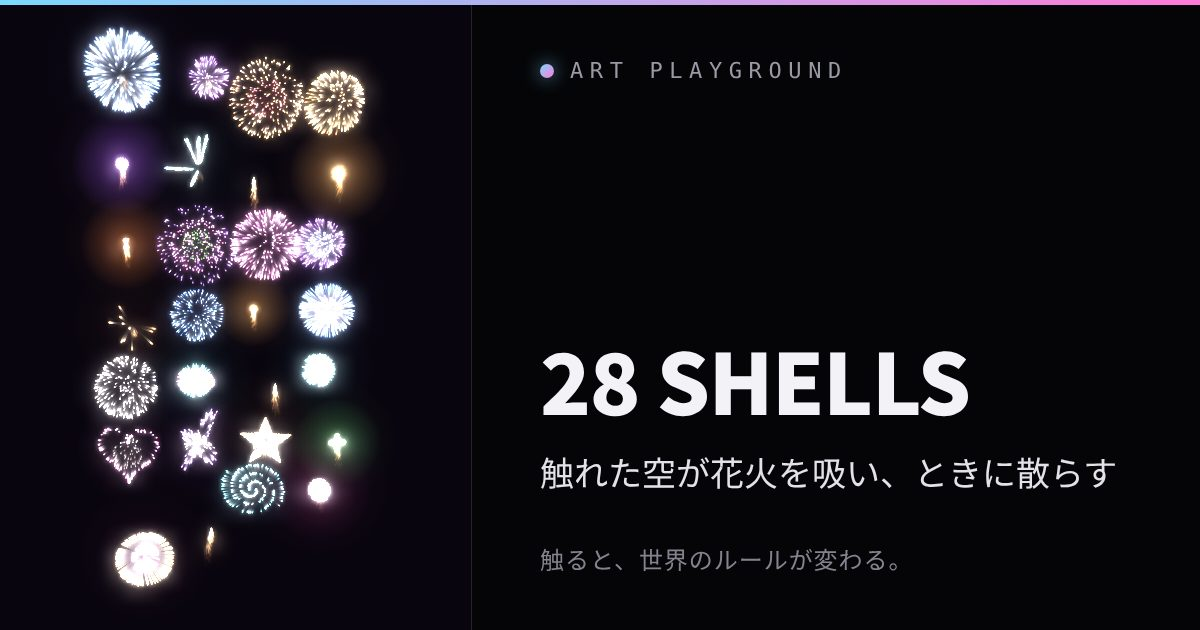
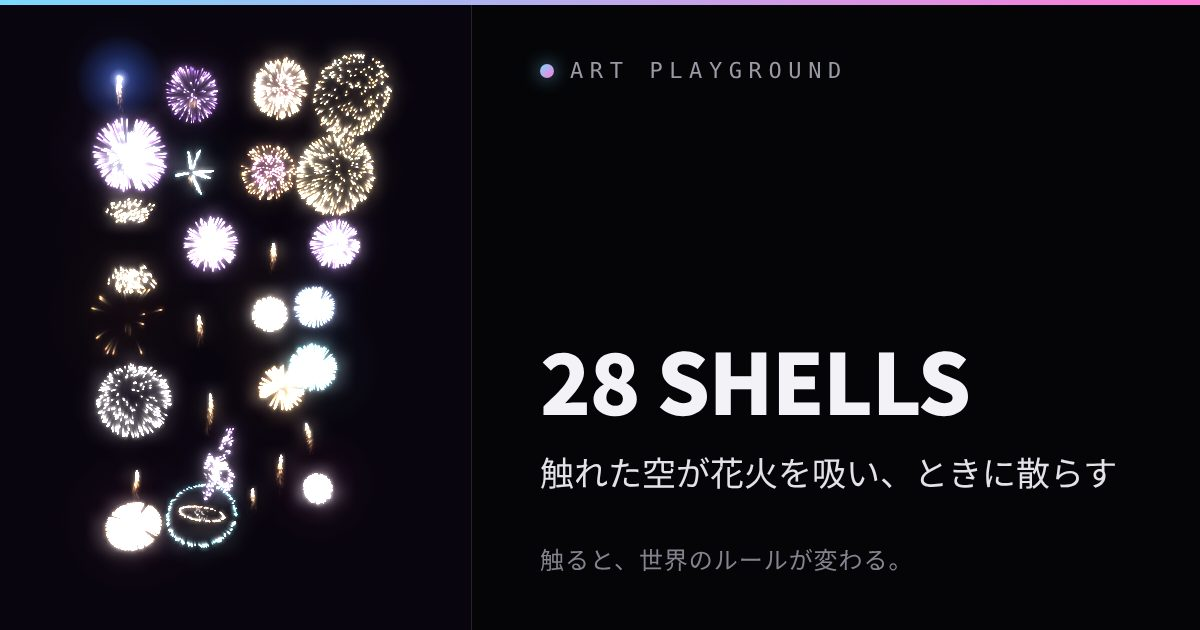
Adopt FALLEN MINUTES as art-v123 and set as CURRENT
Promote prototypes/fallen-minutes.html to art-v123-fallen-minutes.html, move DEEP HOURS into LOG, add REC_WORKS/META/sitemap, regenerate posters and OGP.

Claude-Session: https://claude.ai/code/session_019C65K1LFf5SYdyE4Z4ysti

Changed region(s): [[0.0617, 0.0302, 0.3392, 0.9651]]

diff --git a/index.html b/index.html
@@ -104,8 +104,8 @@
 <body>
 <div class="field"></div><div class="grain"></div><div class="wrap">
 <header class="top"><div class="eyebrow mono">ART PLAYGROUND</div><h1>触ると、世界のルールが変わる。</h1></header><nav class="top-sns" aria-label="ART PLAYGROUNDのSNS"><a class="follow-link ig" href="https://www.instagram.com/artplayground.art/" target="_blank" rel="noopener noreferrer" aria-label="ART PLAYGROUNDのInstagramを開く"><svg viewBox="0 0 24 24" fill="none" stroke="currentColor" stroke-width="1.8" aria-hidden="true"><rect x="3" y="3" width="18" height="18" rx="5.5"/><circle cx="12" cy="12" r="4.1"/><circle cx="17.1" cy="6.9" r="0.55" fill="currentColor" stroke="none"/></svg>Instagram</a><a class="follow-link th" href="https://www.threads.net/@artplayground.art" target="_blank" rel="noopener noreferrer" aria-label="ART PLAYGROUNDのThreadsを開く"><svg viewBox="0 0 24 24" fill="currentColor" aria-hidden="true"><path d="M12.186 24h-.007c-3.581-.024-6.334-1.205-8.184-3.509C2.35 18.44 1.5 15.586 1.472 12.01v-.017c.03-3.579.879-6.43 2.525-8.482C5.845 1.205 8.6.024 12.18 0h.014c2.746.02 5.043.725 6.826 2.098 1.677 1.29 2.858 3.13 3.509 5.467l-2.04.569c-1.104-3.96-3.898-5.984-8.304-6.015-2.91.022-5.11.936-6.54 2.717C4.307 6.504 3.616 8.914 3.589 12c.027 3.086.718 5.496 2.057 7.164 1.43 1.783 3.631 2.698 6.54 2.717 2.623-.02 4.358-.631 5.8-2.045 1.647-1.613 1.618-3.593 1.09-4.798-.31-.71-.873-1.3-1.634-1.75-.192 1.352-.622 2.446-1.284 3.272-.886 1.102-2.14 1.704-3.73 1.79-1.202.065-2.361-.218-3.259-.801-1.063-.689-1.685-1.74-1.752-2.964-.065-1.19.408-2.285 1.33-3.082.88-.76 2.119-1.207 3.583-1.291a13.853 13.853 0 0 1 3.02.142c-.126-.742-.375-1.332-.75-1.757-.513-.586-1.308-.883-2.359-.89h-.029c-.844 0-1.992.232-2.721 1.32L7.734 7.847c.98-1.454 2.568-2.256 4.478-2.256h.044c3.194.02 5.097 1.975 5.287 5.388.108.046.216.094.321.142 1.49.7 2.58 1.761 3.154 3.07.797 1.82.871 4.79-1.548 7.158-1.85 1.81-4.094 2.628-7.277 2.65Zm1.003-11.69c-.242 0-.487.007-.739.021-1.836.103-2.98.946-2.916 2.143.067 1.256 1.452 1.839 2.784 1.767 1.224-.065 2.818-.543 3.086-3.71a10.5 10.5 0 0 0-2.215-.221z"/></svg>Threads</a><a class="follow-link tt" href="https://www.tiktok.com/@artplayground.art" target="_blank" rel="noopener noreferrer" aria-label="ART PLAYGROUNDのTikTokを開く"><svg viewBox="0 0 24 24" fill="currentColor" aria-hidden="true"><path d="M16.6 3h-3v12.2a2.9 2.9 0 1 1-2.05-2.77v-3.05a5.95 5.95 0 1 0 5.05 5.88V9.2a7.1 7.1 0 0 0 4.1 1.3V7.5a4.1 4.1 0 0 1-4.1-4.1V3z"/></svg>TikTok</a><button class="top-share" id="siteShareBtn" type="button" aria-label="ART PLAYGROUNDをシェアする"><svg viewBox="0 0 24 24" fill="none" stroke="currentColor" stroke-width="2" stroke-linecap="round" stroke-linejoin="round" aria-hidden="true"><path d="M12 15V4"/><path d="M8 8l4-4 4 4"/><path d="M6 11H5.5A1.5 1.5 0 0 0 4 12.5v6A1.5 1.5 0 0 0 5.5 20h13a1.5 1.5 0 0 0 1.5-1.5v-6a1.5 1.5 0 0 0-1.5-1.5H18"/></svg>シェアする</button></nav>
-<div class="current" onclick="openArt('art-v120-deep-hours.html','DEEP HOURS')"><iframe data-src="art-v120-deep-hours.html" loading="lazy"></iframe><div class="cap"><div class="tag mono">CURRENT</div><div class="name">DEEP HOURS</div></div></div>
-<div class="logbar"><h2 class="label">LOG</h2><button id="prevToggle" type="button" aria-pressed="false" class="off">動くプレビュー OFF</button></div><div class="log"><button class="entry" onclick="openArt('art-v122-28-shells.html','28 SHELLS')"><iframe data-src="art-v122-28-shells.html" loading="lazy"></iframe><div class="cap"><div class="name">28 SHELLS</div></div></button><button class="entry" onclick="openArt('art-v121-campfire.html','CAMPFIRE')"><iframe data-src="art-v121-campfire.html" loading="lazy"></iframe><div class="cap"><div class="name">CAMPFIRE</div></div></button><button class="entry" onclick="openArt('art-v119-window-fog.html','WINDOW FOG')"><iframe data-src="art-v119-window-fog.html" loading="lazy"></iframe><div class="cap"><div class="name">WINDOW FOG</div></div></button><button class="entry" onclick="openArt('art-v118-blink-law.html','BLINK LAW')"><iframe data-src="art-v118-blink-law.html" loading="lazy"></iframe><div class="cap"><div class="name">BLINK LAW</div></div></button><button class="entry" onclick="openArt('art-v117-gaze-law.html','GAZE LAW')"><iframe data-src="art-v117-gaze-law.html" loading="lazy"></iframe><div class="cap"><div class="name">GAZE LAW</div></div></button><button class="entry" onclick="openArt('art-v116-foil-law.html','FOIL LAW')"><iframe data-src="art-v116-foil-law.html" loading="lazy"></iframe><div class="cap"><div class="name">FOIL LAW</div></div></button><button class="entry" onclick="openArt('art-v115-komorebi.html','KOMOREBI')"><iframe data-src="art-v115-komorebi.html" loading="lazy"></iframe><div class="cap"><div class="name">KOMOREBI</div></div></button><button class="entry" onclick="openArt('art-v113-ring-dial.html','RING DIAL')"><iframe data-src="art-v113-ring-dial.html" loading="lazy"></iframe><div class="cap"><div class="name">RING DIAL</div></div></button><button class="entry" onclick="openArt('art-v112-silver-turn.html','SILVER TURN')"><iframe data-src="art-v112-silver-turn.html" loading="lazy"></iframe><div class="cap"><div class="name">SILVER TURN</div></div></button><button class="entry" onclick="openArt('art-v111-sea-sparkle.html','SEA SPARKLE')"><iframe data-src="art-v111-sea-sparkle.html" loading="lazy"></iframe><div class="cap"><div class="name">SEA SPARKLE</div></div></button><button class="entry" onclick="openArt('art-v110-north-draw.html','NORTH DRAW')"><iframe data-src="art-v110-north-draw.html" loading="lazy"></iframe><div class="cap"><div class="name">NORTH DRAW</div></div></button><button class="entry" onclick="openArt('art-v109-next-spring.html','NEXT SPRING')"><iframe data-src="art-v109-next-spring.html" loading="lazy"></iframe><div class="cap"><div class="name">NEXT SPRING</div></div></button><button class="entry" onclick="openArt('art-v108-iron-bloom.html','IRON BLOOM')"><iframe data-src="art-v108-iron-bloom.html" loading="lazy"></iframe><div class="cap"><div class="name">IRON BLOOM</div></div></button><button class="entry" onclick="openArt('art-v107-eye-loom.html','EYE LOOM')"><iframe data-src="art-v107-eye-loom.html" loading="lazy"></iframe><div class="cap"><div class="name">EYE LOOM</div></div></button><button class="entry" onclick="openArt('art-v106-split-dew.html','SPLIT DEW')"><iframe data-src="art-v106-split-dew.html" loading="lazy"></iframe><div class="cap"><div class="name">SPLIT DEW</div></div></button><button class="entry" onclick="openArt('art-v105-strata-sand.html','STRATA SAND')"><iframe data-src="art-v105-strata-sand.html" loading="lazy"></iframe><div class="cap"><div class="name">STRATA SAND</div></div></button><button class="entry" onclick="openArt('art-v104-prism-shell.html','PRISM SHELL')"><iframe data-src="art-v104-prism-shell.html" loading="lazy"></iframe><div class="cap"><div class="name">PRISM SHELL</div></div></button>
+<div class="current" onclick="openArt('art-v123-fallen-minutes.html','FALLEN MINUTES')"><iframe data-src="art-v123-fallen-minutes.html" loading="lazy"></iframe><div class="cap"><div class="tag mono">CURRENT</div><div class="name">FALLEN MINUTES</div></div></div>
+<div class="logbar"><h2 class="label">LOG</h2><button id="prevToggle" type="button" aria-pressed="false" class="off">動くプレビュー OFF</button></div><div class="log"><button class="entry" onclick="openArt('art-v122-28-shells.html','28 SHELLS')"><iframe data-src="art-v122-28-shells.html" loading="lazy"></iframe><div class="cap"><div class="name">28 SHELLS</div></div></button><button class="entry" onclick="openArt('art-v121-campfire.html','CAMPFIRE')"><iframe data-src="art-v121-campfire.html" loading="lazy"></iframe><div class="cap"><div class="name">CAMPFIRE</div></div></button><button class="entry" onclick="openArt('art-v120-deep-hours.html','DEEP HOURS')"><iframe data-src="art-v120-deep-hours.html" loading="lazy"></iframe><div class="cap"><div class="name">DEEP HOURS</div></div></button><button class="entry" onclick="openArt('art-v119-window-fog.html','WINDOW FOG')"><iframe data-src="art-v119-window-fog.html" loading="lazy"></iframe><div class="cap"><div class="name">WINDOW FOG</div></div></button><button class="entry" onclick="openArt('art-v118-blink-law.html','BLINK LAW')"><iframe data-src="art-v118-blink-law.html" loading="lazy"></iframe><div class="cap"><div class="name">BLINK LAW</div></div></button><button class="entry" onclick="openArt('art-v117-gaze-law.html','GAZE LAW')"><iframe data-src="art-v117-gaze-law.html" loading="lazy"></iframe><div class="cap"><div class="name">GAZE LAW</div></div></button><button class="entry" onclick="openArt('art-v116-foil-law.html','FOIL LAW')"><iframe data-src="art-v116-foil-law.html" loading="lazy"></iframe><div class="cap"><div class="name">FOIL LAW</div></div></button><button class="entry" onclick="openArt('art-v115-komorebi.html','KOMOREBI')"><iframe data-src="art-v115-komorebi.html" loading="lazy"></iframe><div class="cap"><div class="name">KOMOREBI</div></div></button><button class="entry" onclick="openArt('art-v113-ring-dial.html','RING DIAL')"><iframe data-src="art-v113-ring-dial.html" loading="lazy"></iframe><div class="cap"><div class="name">RING DIAL</div></div></button><button class="entry" onclick="openArt('art-v112-silver-turn.html','SILVER TURN')"><iframe data-src="art-v112-silver-turn.html" loading="lazy"></iframe><div class="cap"><div class="name">SILVER TURN</div></div></button><button class="entry" onclick="openArt('art-v111-sea-sparkle.html','SEA SPARKLE')"><iframe data-src="art-v111-sea-sparkle.html" loading="lazy"></iframe><div class="cap"><div class="name">SEA SPARKLE</div></div></button><button class="entry" onclick="openArt('art-v110-north-draw.html','NORTH DRAW')"><iframe data-src="art-v110-north-draw.html" loading="lazy"></iframe><div class="cap"><div class="name">NORTH DRAW</div></div></button><button class="entry" onclick="openArt('art-v109-next-spring.html','NEXT SPRING')"><iframe data-src="art-v109-next-spring.html" loading="lazy"></iframe><div class="cap"><div class="name">NEXT SPRING</div></div></button><button class="entry" onclick="openArt('art-v108-iron-bloom.html','IRON BLOOM')"><iframe data-src="art-v108-iron-bloom.html" loading="lazy"></iframe><div class="cap"><div class="name">IRON BLOOM</div></div></button><button class="entry" onclick="openArt('art-v107-eye-loom.html','EYE LOOM')"><iframe data-src="art-v107-eye-loom.html" loading="lazy"></iframe><div class="cap"><div class="name">EYE LOOM</div></div></button><button class="entry" onclick="openArt('art-v106-split-dew.html','SPLIT DEW')"><iframe data-src="art-v106-split-dew.html" loading="lazy"></iframe><div class="cap"><div class="name">SPLIT DEW</div></div></button><button class="entry" onclick="openArt('art-v105-strata-sand.html','STRATA SAND')"><iframe data-src="art-v105-strata-sand.html" loading="lazy"></iframe><div class="cap"><div class="name">STRATA SAND</div></div></button><button class="entry" onclick="openArt('art-v104-prism-shell.html','PRISM SHELL')"><iframe data-src="art-v104-prism-shell.html" loading="lazy"></iframe><div class="cap"><div class="name">PRISM SHELL</div></div></button>
 <button class="entry" onclick="openArt('art-v103-snow-ledger.html','SNOW LEDGER')"><iframe data-src="art-v103-snow-ledger.html" loading="lazy"></iframe><div class="cap"><div class="name">SNOW LEDGER</div></div></button>
 <button class="entry" onclick="openArt('art-v102-rosary.html','ROSARY')"><iframe data-src="art-v102-rosary.html" loading="lazy"></iframe><div class="cap"><div class="name">ROSARY</div></div></button>
 <button class="entry" onclick="openArt('art-v101-waterline.html','WATERLINE')"><iframe data-src="art-v101-waterline.html" loading="lazy"></iframe><div class="cap"><div class="name">WATERLINE</div></div></button>
@@ -162,7 +162,7 @@
 <button class="entry" onclick="openArt('art-v20.html','ALIVE')"><iframe data-src="art-v20.html" loading="lazy"></iframe><div class="cap"><div class="name">ALIVE</div></div></button>
 </div>
 <section class="follow" aria-label="ART PLAYGROUNDのSNS"><div class="follow-kicker mono">FOLLOW THE PLAYGROUND</div><h2>新しい作品、実験、変化の記録をSNSで。</h2><div class="follow-links"><a class="follow-link ig" href="https://www.instagram.com/artplayground.art/" target="_blank" rel="noopener noreferrer" aria-label="ART PLAYGROUNDのInstagramを開く"><svg viewBox="0 0 24 24" fill="none" stroke="currentColor" stroke-width="1.8" aria-hidden="true"><rect x="3" y="3" width="18" height="18" rx="5.5"/><circle cx="12" cy="12" r="4.1"/><circle cx="17.1" cy="6.9" r="0.55" fill="currentColor" stroke="none"/></svg>Instagram</a><a class="follow-link tt" href="https://www.tiktok.com/@artplayground.art" target="_blank" rel="noopener noreferrer" aria-label="ART PLAYGROUNDのTikTokを開く"><svg viewBox="0 0 24 24" fill="currentColor" aria-hidden="true"><path d="M16.6 3h-3v12.2a2.9 2.9 0 1 1-2.05-2.77v-3.05a5.95 5.95 0 1 0 5.05 5.88V9.2a7.1 7.1 0 0 0 4.1 1.3V7.5a4.1 4.1 0 0 1-4.1-4.1V3z"/></svg>TikTok</a><a class="follow-link th" href="https://www.threads.net/@artplayground.art" target="_blank" rel="noopener noreferrer" aria-label="ART PLAYGROUNDのThreadsを開く"><svg viewBox="0 0 24 24" fill="currentColor" aria-hidden="true"><path d="M12.186 24h-.007c-3.581-.024-6.334-1.205-8.184-3.509C2.35 18.44 1.5 15.586 1.472 12.01v-.017c.03-3.579.879-6.43 2.525-8.482C5.845 1.205 8.6.024 12.18 0h.014c2.746.02 5.043.725 6.826 2.098 1.677 1.29 2.858 3.13 3.509 5.467l-2.04.569c-1.104-3.96-3.898-5.984-8.304-6.015-2.91.022-5.11.936-6.54 2.717C4.307 6.504 3.616 8.914 3.589 12c.027 3.086.718 5.496 2.057 7.164 1.43 1.783 3.631 2.698 6.54 2.717 2.623-.02 4.358-.631 5.8-2.045 1.647-1.613 1.618-3.593 1.09-4.798-.31-.71-.873-1.3-1.634-1.75-.192 1.352-.622 2.446-1.284 3.272-.886 1.102-2.14 1.704-3.73 1.79-1.202.065-2.361-.218-3.259-.801-1.063-.689-1.685-1.74-1.752-2.964-.065-1.19.408-2.285 1.33-3.082.88-.76 2.119-1.207 3.583-1.291a13.853 13.853 0 0 1 3.02.142c-.126-.742-.375-1.332-.75-1.757-.513-.586-1.308-.883-2.359-.89h-.029c-.844 0-1.992.232-2.721 1.32L7.734 7.847c.98-1.454 2.568-2.256 4.478-2.256h.044c3.194.02 5.097 1.975 5.287 5.388.108.046.216.094.321.142 1.49.7 2.58 1.761 3.154 3.07.797 1.82.871 4.79-1.548 7.158-1.85 1.81-4.094 2.628-7.277 2.65Zm1.003-11.69c-.242 0-.487.007-.739.021-1.836.103-2.98.946-2.916 2.143.067 1.256 1.452 1.839 2.784 1.767 1.224-.065 2.818-.543 3.086-3.71a10.5 10.5 0 0 0-2.215-.221z"/></svg>Threads</a></div></section>
-<section class="about" aria-label="ART PLAYGROUNDについて"><div class="about-kicker mono">ABOUT THE PROJECT</div><h2>インタラクティブなジェネラティブアート作品を制作・公開する独立プロジェクトです。</h2><p>ジェネラティブアートとは、プログラムのルールから生み出される作品のことです。</p><p>ART PLAYGROUNDでは、触れることで作品世界のルールが変化する作品を制作しています。現在公開している作品を、このサイト上で実際に体験できます。</p><p class="about-en">ART PLAYGROUND is an independent generative art project creating and publishing interactive artworks. Each work explores a world whose rules can change through interaction. The artworks are available to experience directly on this website.</p><p class="about-works">Published works: DEEP HOURS · 28 SHELLS · CAMPFIRE · WINDOW FOG · BLINK LAW · GAZE LAW · FOIL LAW · KOMOREBI · RING DIAL · SILVER TURN · SEA SPARKLE · NORTH DRAW · NEXT SPRING · IRON BLOOM · EYE LOOM · SPLIT DEW · STRATA SAND · PRISM SHELL · SNOW LEDGER · ROSARY · WATERLINE · HAIRLINE · MORPHING FERN · SWARM CATHEDRAL · MIRROR POOL · FROST CATHEDRAL · DROSTE RAIN · ATTRACTOR VEIL · LIVING REEF · HELIOTROPE · BUD LAW · NEST LAW · LAMP FOLD · BIRTHMARK · LIGHT WEB · TWIN TIDE · ANIMAL MANSION · HAMSTER DROP · PALIMPSEST · INNER EYE · RAIN RELAY · RAINBOW WALK · NIGHT SHIFT · HELD TIME · COLOR LATTICE · KEPT WARMTH · CHROMA DRIFT · MIRROR FRACTURE · MIRROR DESCENT · MIRROR PRESSURE · LUMINA · TIDE MARK · FATIGUE LAW · OPAL MARBLE · TAR CEILING · SEVEN SLICE · HOLO COMPASS · ENCIRCLE · COLOR BREATH · CHROMATIC FOLD · RGB MEMBRANE · STRATUM · VOID FIELD II · FEATHER FOLD · INFECTION · ART OF BECOMING · ONE KNOT · DIVIDED LAW · STANDING LAW · LIVING ORDER · PARTICLE COSMOS II · ALIVE</p></section>
+<section class="about" aria-label="ART PLAYGROUNDについて"><div class="about-kicker mono">ABOUT THE PROJECT</div><h2>インタラクティブなジェネラティブアート作品を制作・公開する独立プロジェクトです。</h2><p>ジェネラティブアートとは、プログラムのルールから生み出される作品のことです。</p><p>ART PLAYGROUNDでは、触れることで作品世界のルールが変化する作品を制作しています。現在公開している作品を、このサイト上で実際に体験できます。</p><p class="about-en">ART PLAYGROUND is an independent generative art project creating and publishing interactive artworks. Each work explores a world whose rules can change through interaction. The artworks are available to experience directly on this website.</p><p class="about-works">Published works: FALLEN MINUTES · 28 SHELLS · CAMPFIRE · DEEP HOURS · WINDOW FOG · BLINK LAW · GAZE LAW · FOIL LAW · KOMOREBI · RING DIAL · SILVER TURN · SEA SPARKLE · NORTH DRAW · NEXT SPRING · IRON BLOOM · EYE LOOM · SPLIT DEW · STRATA SAND · PRISM SHELL · SNOW LEDGER · ROSARY · WATERLINE · HAIRLINE · MORPHING FERN · SWARM CATHEDRAL · MIRROR POOL · FROST CATHEDRAL · DROSTE RAIN · ATTRACTOR VEIL · LIVING REEF · HELIOTROPE · BUD LAW · NEST LAW · LAMP FOLD · BIRTHMARK · LIGHT WEB · TWIN TIDE · ANIMAL MANSION · HAMSTER DROP · PALIMPSEST · INNER EYE · RAIN RELAY · RAINBOW WALK · NIGHT SHIFT · HELD TIME · COLOR LATTICE · KEPT WARMTH · CHROMA DRIFT · MIRROR FRACTURE · MIRROR DESCENT · MIRROR PRESSURE · LUMINA · TIDE MARK · FATIGUE LAW · OPAL MARBLE · TAR CEILING · SEVEN SLICE · HOLO COMPASS · ENCIRCLE · COLOR BREATH · CHROMATIC FOLD · RGB MEMBRANE · STRATUM · VOID FIELD II · FEATHER FOLD · INFECTION · ART OF BECOMING · ONE KNOT · DIVIDED LAW · STANDING LAW · LIVING ORDER · PARTICLE COSMOS II · ALIVE</p></section>
 <section class="links" aria-label="関連リンク"><div class="links-kicker mono">RELATED LINKS</div><p>作品づくりやグッズ化に使える外部サービスへのリンクです。（広告・PRを含みます）</p><div class="links-row"><a href="https://px.a8.net/svt/ejp?a8mat=4BEPQ2+6YNK02+5DVQ+HVFKY" data-affiliate-id="artgraph" target="_blank" rel="nofollow sponsored noopener">artgraph.</a><a href="https://px.a8.net/svt/ejp?a8mat=4BEPQ2+77L22Q+5SKM+5YRHE" data-affiliate-id="print-earth" target="_blank" rel="nofollow sponsored noopener">プリントアース</a><a href="https://px.a8.net/svt/ejp?a8mat=4BEPQ2+73F0UA+5XDY+5YJRM" data-affiliate-id="design-pocket" target="_blank" rel="nofollow sponsored noopener">デザインポケット</a><a href="https://px.a8.net/svt/ejp?a8mat=4BEPQ2+740GG2+3BSS+5YJRM" data-affiliate-id="generate-design" target="_blank" rel="nofollow sponsored noopener">Generate Design</a><a href="https://px.a8.net/svt/ejp?a8mat=4BEPQ2+74LW1U+5R76+5YRHE" data-affiliate-id="favorite" target="_blank" rel="nofollow sponsored noopener">Favorite</a><a href="https://px.a8.net/svt/ejp?a8mat=4BEPQ2+757BNM+4RNG+5ZMCI" data-affiliate-id="colleize" target="_blank" rel="nofollow sponsored noopener">colleize</a><a href="https://px.a8.net/svt/ejp?a8mat=4BEPQ2+6ZUF7M+2PEO+1HL85U" data-affiliate-id="coconala" target="_blank" rel="nofollow sponsored noopener">ココナラ</a><a href="https://ck.jp.ap.valuecommerce.com/servlet/referral?sid=3785896&pid=892734531" data-affiliate-id="eeo-store" target="_blank" rel="nofollow sponsored noopener">eeo Store（キャラクターグッズ）<img src="https://ad.jp.ap.valuecommerce.com/servlet/gifbanner?sid=3785896&pid=892734531" height="1" width="1" border="0" alt=""></a></div></section>
 <section class="support" aria-label="ART PLAYGROUNDの制作支援"><div class="support-kicker mono">SUPPORT</div><h2>気に入ったら、作品制作を支援できます。</h2><p>ART PLAYGROUNDを楽しんでもらえたら、制作と実験を続けるための支援をお願いします。</p><a class="support-link" href="https://ko-fi.com/artplayground" target="_blank" rel="noopener noreferrer" aria-label="ART PLAYGROUNDの制作を支援する">☕ 制作を支援する</a><p class="support-note">100円から · PayPal / クレジットカード対応</p></section><div class="credit mono">ART PLAYGROUND</div></div>
 <div class="modal" id="modal"><button class="close" onclick="closeArt()" aria-label="閉じる">✕</button><div class="mtools"><button class="mbtn rec" id="recBtn" type="button" hidden aria-label="動きを録画する"><i class="dot"></i><span class="rt"></span></button><button class="mbtn" id="stillBtn" type="button" aria-label="いまの画面を画像にする"><svg viewBox="0 0 24 24" fill="none" stroke="currentColor" stroke-width="1.8" stroke-linecap="round" stroke-linejoin="round" aria-hidden="true"><path d="M21 18.5a1.5 1.5 0 0 1-1.5 1.5h-15A1.5 1.5 0 0 1 3 18.5V8.5A1.5 1.5 0 0 1 4.5 7H8l1.5-2.5h5L16 7h3.5A1.5 1.5 0 0 1 21 8.5z"/><circle cx="12" cy="13" r="3.6"/></svg></button><button class="mbtn" id="shareBtn" type="button" aria-label="この作品を共有する"><svg viewBox="0 0 24 24" fill="none" stroke="currentColor" stroke-width="1.8" stroke-linecap="round" stroke-linejoin="round" aria-hidden="true"><path d="M12 15V4"/><path d="M8 8l4-4 4 4"/><path d="M6 11H5.5A1.5 1.5 0 0 0 4 12.5v6A1.5 1.5 0 0 0 5.5 20h13a1.5 1.5 0 0 0 1.5-1.5v-6a1.5 1.5 0 0 0-1.5-1.5H18"/></svg></button></div><iframe id="modalFrame" src=""></iframe></div>
@@ -212,6 +212,7 @@ setTimeout(function(){document.documentElement.classList.remove('standalone-laun
 /* ---- 一言説明: 各作品の <title>「NAME — 日本語の一言」から自動で取得して表示(作品側が唯一の情報源) ---- */
 /* META: sub=<title>に日本語の一言が無い/合わない作品の上書き(作品の<title>を整えたら消してよい) / hint=CURRENT枠の操作ヒント(任意) */
 var META={
+  'art-v123-fallen-minutes.html':{hint:'なぞって砂を払う。傾けると砂が落ちる'},
   'art-v122-28-shells.html':{hint:'タップで花火。同じ所を重ねて触ると空が吸い込む'},
   'art-v89-lamp-fold.html':{hint:'開いて、なぞって鏡を立てる'},
   'art-v90-nest-law.html':{hint:'なぞって内側の法則を変える'},
@@ -327,7 +328,7 @@ function hydrateSub(box){
    作品ファイル・ap-kit.js は触らない(全画面のiframeは同じサイトなので、ここから作品のcanvasを読む)。 */
 var REC_HANDLE='@artplayground.art';/* 透かしの2行目。TikTokはプロフィールにリンクを貼れないので、動画に検索できる名前を入れる */
 var REC_W=720;/* 録画の横幅px(縦は画面の比率)。重い端末では小さくする */
-var REC_WORKS={'art-v122-28-shells.html':1,'art-v121-campfire.html':1,'art-v120-deep-hours.html':1,'art-v119-window-fog.html':1,'art-v118-blink-law.html':1,'art-v117-gaze-law.html':1,'art-v116-foil-law.html':1,'art-v113-ring-dial.html':1,'art-v112-silver-turn.html':1,'art-v111-sea-sparkle.html':1,'art-v110-north-draw.html':1,'art-v109-next-spring.html':1,'art-v108-iron-bloom.html':1,'art-v107-eye-loom.html':1,'art-v106-split-dew.html':1,'art-v105-strata-sand.html':1,'art-v104-prism-shell.html':1,'art-v103-snow-ledger.html':1,'art-v102-rosary.html':1,'art-v99-morphing-fern.html':1,'art-v98-swarm-cathedral.html':1,'art-v97-mirror-pool.html':1,'art-v96-frost-cathedral.html':1,'art-v95-droste-rain.html':1,'art-v94-attractor-veil.html':1,'art-v90-nest-law.html':1,'art-v89-lamp-fold.html':1,'art-v88-birthmark.html':1,'art-v87-light-web.html':1,'art-v86-twin-tide.html':1,'art-v85-animal-mansion.html':1,'art-v84-hamster-drop.html':1,'art-v80-rainbow-walk.html':1,'art-v49-feather-fold.html':1,'art-v69-opal-marble.html':1,'art-v74-mirror-descent.html':1,'art-v50-stratum.html':1,'art-v65-encircle.html':1,'art-v101-waterline.html':1,'art-v100-hairline.html':1,'art-v82-inner-eye.html':1,'art-v81-rain-relay.html':1,'art-v78-held-time.html':1,'art-v75-mirror-split.html':1,'art-v73-mirror-pressure.html':1,'art-v72-lumina.html':1,'art-v71-tide-mark.html':1,'art-v66-holo-compass.html':1,'prototypes/spiral-spectrum-200-v9.html':1,'art-v36-art-of-becoming.html':1,'art-v30-standing-law.html':1,'art-v115-komorebi.html':1,'art-v27.html':1,'art-v93-living-reef.html':1,'art-v92-heliotrope.html':1,'art-v91-bud-law.html':1,'art-v83-palimpsest.html':1,'art-v79-night-shift.html':1,'prototypes/chroma-grid.html':1,'art-v77-kept-warmth.html':1,'art-v70-crystal-strain.html':1,'art-v68-tar-ceiling.html':1,'art-v67-seven-slice.html':1,'art-v64-chromatic-fold.html':1,'prototypes/membrane-rgb.html':1,'art-v35-one-knot.html':1,'art-v31-divided-law.html':1,'art-v28-living-order.html':1,'art-v20.html':1};
+var REC_WORKS={'art-v123-fallen-minutes.html':1,'art-v122-28-shells.html':1,'art-v121-campfire.html':1,'art-v120-deep-hours.html':1,'art-v119-window-fog.html':1,'art-v118-blink-law.html':1,'art-v117-gaze-law.html':1,'art-v116-foil-law.html':1,'art-v113-ring-dial.html':1,'art-v112-silver-turn.html':1,'art-v111-sea-sparkle.html':1,'art-v110-north-draw.html':1,'art-v109-next-spring.html':1,'art-v108-iron-bloom.html':1,'art-v107-eye-loom.html':1,'art-v106-split-dew.html':1,'art-v105-strata-sand.html':1,'art-v104-prism-shell.html':1,'art-v103-snow-ledger.html':1,'art-v102-rosary.html':1,'art-v99-morphing-fern.html':1,'art-v98-swarm-cathedral.html':1,'art-v97-mirror-pool.html':1,'art-v96-frost-cathedral.html':1,'art-v95-droste-rain.html':1,'art-v94-attractor-veil.html':1,'art-v90-nest-law.html':1,'art-v89-lamp-fold.html':1,'art-v88-birthmark.html':1,'art-v87-light-web.html':1,'art-v86-twin-tide.html':1,'art-v85-animal-mansion.html':1,'art-v84-hamster-drop.html':1,'art-v80-rainbow-walk.html':1,'art-v49-feather-fold.html':1,'art-v69-opal-marble.html':1,'art-v74-mirror-descent.html':1,'art-v50-stratum.html':1,'art-v65-encircle.html':1,'art-v101-waterline.html':1,'art-v100-hairline.html':1,'art-v82-inner-eye.html':1,'art-v81-rain-relay.html':1,'art-v78-held-time.html':1,'art-v75-mirror-split.html':1,'art-v73-mirror-pressure.html':1,'art-v72-lumina.html':1,'art-v71-tide-mark.html':1,'art-v66-holo-compass.html':1,'prototypes/spiral-spectrum-200-v9.html':1,'art-v36-art-of-becoming.html':1,'art-v30-standing-law.html':1,'art-v115-komorebi.html':1,'art-v27.html':1,'art-v93-living-reef.html':1,'art-v92-heliotrope.html':1,'art-v91-bud-law.html':1,'art-v83-palimpsest.html':1,'art-v79-night-shift.html':1,'prototypes/chroma-grid.html':1,'art-v77-kept-warmth.html':1,'art-v70-crystal-strain.html':1,'art-v68-tar-ceiling.html':1,'art-v67-seven-slice.html':1,'art-v64-chromatic-fold.html':1,'prototypes/membrane-rgb.html':1,'art-v35-one-knot.html':1,'art-v31-divided-law.html':1,'art-v28-living-order.html':1,'art-v20.html':1};
 (function(){
   var cur=null,rec=null,toastT,sheetUrl=null,MAXS=30;
   var shareBtn=document.getElementById('shareBtn'),recBtn=document.getElementById('recBtn'),sheet=document.getElementById('recsheet'),vid=document.getElementById('rsVideo'),toastEl=document.getElementById('aptoast'),rsShare=document.getElementById('rsShare'),rsSave=document.getElementById('rsSave'),rsTitle=document.getElementById('rsTitle'),stillBtn=document.getElementById('stillBtn'),img=document.getElementById('rsImg');

diff --git a/art-v123-fallen-minutes.html b/art-v123-fallen-minutes.html
@@ -1,0 +1,275 @@
+<!DOCTYPE html>
+<!-- FALLEN MINUTES — クロちゃん(Claude)作。2026/11/10 採用・art-v123として昇格(元: prototypes/fallen-minutes.html。ap-kit.jsのパスをルート用に変更)。
+     時計が主役。今の時刻(HH:MM)の数字に砂が降り積もる。
+     世界のルール: 「過ぎた一分は崩れて、砂の地層になる」。分が変わると、変わった数字だけ崩れ落ちて
+     下の砂丘に積もり、新しい数字がまた積もる。砂の色は時間でゆっくり変わるので、数字にも砂丘にも縞(地層)が残る。
+     なぞる=砂を払う(払った所はまた積もる)。傾ける=砂が数字から流れ落ちる(戻すとまた積もる)。振る=砂が舞い上がる。
+     秒は数字では出さない。砂の色は時間でなめらかに変わり続ける(10秒ごとの色の切り替えは「つまらない」で廃止)。
+     分の下の5つの粒が、10秒・20秒・30秒・40秒・50秒で1つずつ灯る(0〜9秒は何も灯らない。分が変わると全部消える)。
+     毎分50秒に流れ星が1本、空を斜めに横切って砂丘に落ちる(もうすぐ分が変わる合図)。 -->
+<html lang="ja">
+<head>
+<meta charset="utf-8">
+<meta name="viewport" content="width=device-width,initial-scale=1,viewport-fit=cover,user-scalable=no">
+<title>FALLEN MINUTES — 過ぎた一分は崩れて、砂の地層になる</title>
+<script src="ap-kit.js"></script>
+<style>
+html,body{margin:0;height:100%;background:#07060a;overflow:hidden;touch-action:none}
+canvas{position:fixed;inset:0;width:100%;height:100%;display:block}
+#hint{position:fixed;left:0;right:0;bottom:calc(96px + env(safe-area-inset-bottom));text-align:center;
+  color:#fff;font:600 15px/1.5 system-ui,-apple-system,"Hiragino Sans",sans-serif;letter-spacing:.06em;
+  text-shadow:0 0 8px #000,0 0 8px #000;pointer-events:none;opacity:0;transition:opacity .8s}
+#hint.on{opacity:.85}
+</style>
+</head>
+<body>
+<canvas id="c"></canvas>
+<div id="hint">なぞる・傾ける・振ると砂が動く</div>
+<script>
+(function(){
+var cv=document.getElementById('c'), ctx=cv.getContext('2d');
+var hint=document.getElementById('hint');
+var small=document.createElement('canvas'), sctx=small.getContext('2d');
+var gcv=document.createElement('canvas'), gctx=gcv.getContext('2d');
+var mcv=document.createElement('canvas'), mctx=mcv.getContext('2d',{willReadFrequently:true});
+
+var CS, GW, GH, N;                 // 1粒の大きさ(px)・格子の幅/高さ
+var set, col, mask, bg, img, px32; // set: 0=空 1=数字の砂 2=砂丘
+var groundTop, groundCount=0;
+var MAXP=24000, np=0;
+var PX=new Float32Array(MAXP), PY=new Float32Array(MAXP), VX=new Float32Array(MAXP), VY=new Float32Array(MAXP);
+var PC=new Uint32Array(MAXP), PF=new Uint8Array(MAXP), PT=new Uint8Array(MAXP);
+var needCols=[], totalEmpty=0, curKey=-1, frameNo=0, t=0;
+var curDec=-1, tiltRaw=0, tiltX=0, shake=0, star=null;
+var PALS=['RAINBOW','GOLD','ICE'], pal=0;
+
+function hsl(h,s,l){h=((h%1)+1)%1;var a=s*Math.min(l,1-l);
+  function f(n){var k=(n+h*12)%12;return l-a*Math.max(-1,Math.min(k-3,9-k,1));}
+  return (255<<24)|((f(4)*255)<<16)|((f(8)*255)<<8)|(f(0)*255);}
+function grainColor(){             // 砂の色は時間でなめらかに変わり続ける(数字にも砂丘にも、ゆるやかな虹の地層が残る)
+  var j=Math.random();
+  if(pal===0)return hsl(t*0.03+j*0.025,.8,.56+j*.1);
+  if(pal===1)return hsl(.09+Math.sin(t*.11)*.03+j*.02,.75,.42+j*.26+.08*Math.sin(t*.9));
+  return hsl(.55+Math.sin(t*.11)*.05+j*.03,.7,.48+j*.24+.08*Math.sin(t*.9));
+}
+function dotColor(d){return pal===0?hsl(d/5,.8,.62):(pal===1?hsl(.1,.75,.5+d*.05):hsl(.55,.7,.5+d*.05));}
+
+function setup(){
+  var dpr=Math.min(window.devicePixelRatio||1,3),W=Math.round(innerWidth*dpr),H=Math.round(innerHeight*dpr);
+  CS=Math.max(2,Math.round(Math.min(W,H)/240));
+  GW=Math.ceil(W/CS);GH=Math.ceil(H/CS);N=GW*GH;
+  cv.width=GW*CS;cv.height=GH*CS;small.width=GW;small.height=GH;mcv.width=GW;mcv.height=GH;gcv.width=Math.ceil(GW/5);gcv.height=Math.ceil(GH/5);
+  set=new Uint8Array(N);col=new Uint32Array(N);mask=new Uint8Array(N);curDec=-1;bg=new Uint32Array(GH);
+  for(var y=0;y<GH;y++){var k=y/GH;bg[y]=(255<<24)|((22+k*20)<<16)|((9+k*7)<<8)|(7+k*13);}
+  img=sctx.createImageData(GW,GH);px32=new Uint32Array(img.data.buffer);
+  groundTop=GH-Math.floor(GH*.2);groundCount=0;np=0;curKey=-1;
+}
+
+function drawMask(hh,mm){
+  mctx.clearRect(0,0,GW,GH);mctx.fillStyle='#fff';mctx.textAlign='center';mctx.textBaseline='middle';
+  var fam='"Arial Black","Helvetica Neue",Arial,sans-serif';
+  function fit(txt,maxW,maxH){var fs=maxH*1.3;mctx.font='900 '+fs+'px '+fam;
+    var w=mctx.measureText(txt).width;if(w>maxW)fs*=maxW/w;mctx.font='900 '+fs+'px '+fam;return fs;}
+  if(GH>GW*1.15){
+    var rowH=GH*.27;fit('00',GW*.9,rowH);
+    mctx.fillText(hh,GW/2,GH*.22);mctx.fillText(mm,GW/2,GH*.53);
+  }else{
+    fit('00:00',GW*.9,GH*.5);mctx.fillText(hh+':'+mm,GW/2,GH*.4);
+  }
+  var d=mctx.getImageData(0,0,GW,GH).data,m=new Uint8Array(N);
+  for(var i=0;i<N;i++)m[i]=d[i*4+3]>128?1:0;
+  for(var y=groundTop;y<GH;y++)for(var x=0;x<GW;x++)m[y*GW+x]=0;
+  return m;
+}
+
+function release(i,kick,vx0){          // 積もった1粒を、落ちる粒に戻す
+  if(!set[i])return;
+  if(set[i]===2)groundCount--;
+  set[i]=0;
+  if(np>=MAXP)return;
+  PX[np]=(i%GW)+.5;PY[np]=((i/GW)|0)+.5;VX[np]=(vx0||0)+(Math.random()-.5)*(kick?1.6:.5);
+  VY[np]=kick?-Math.random()*kick:Math.random()*.3;PC[np]=col[i];PF[np]=kick?(kick>2?55:28):0;PT[np]=0;np++;
+}
+
+function applyTime(){
+  var d=new Date(),key=d.getHours()*60+d.getMinutes();
+  if(key===curKey)return;curKey=key;
+  var hh=('0'+d.getHours()).slice(-2),mm=('0'+d.getMinutes()).slice(-2);
+  var nm=drawMask(hh,mm);
+  // 形から外れた砂は崩れる。下から見て、支えを失った砂も崩れる
+  for(var y=groundTop-1;y>=0;y--)for(var x=0;x<GW;x++){
+    var i=y*GW+x;if(set[i]!==1)continue;
+    var b=i+GW;
+    if(!nm[i]||(nm[b]&&set[b]!==1))release(i,false);
+  }
+  mask=nm;
+}
+
+function applyDec(){               // 10秒の区切りを見て、50秒なら流れ星を出す
+  var dec=Math.floor(Date.now()/10000);if(dec===curDec)return;
+  var first=curDec<0;curDec=dec;
+  if(!first&&Math.floor(Date.now()%60000/10000)===5){   // 50秒: 流れ星
+    var sd=Math.random()<.5?1:-1;
+    star={x:sd>0?GW*.05:GW*.95,y:-2,vx:sd*GW*.8/100,vy:GH/100,tr:[]};
+  }
+}
+function addP(x,y,vx,vy,c,pf){if(np>=MAXP)return;PX[np]=x;PY[np]=y;VX[np]=vx;VY[np]=vy;PC[np]=c;PF[np]=pf;PT[np]=0;np++;}
+function stepStar(){
+  if(!star)return;
+  for(var q=0;q<4;q++){star.tr.push(star.x,star.y);star.x+=star.vx/4;star.y+=star.vy/4;}   // 尾がつながるよう細かく刻む
+  if(star.tr.length>520)star.tr.splice(0,8);
+  var xi=star.x|0,yi=star.y|0;
+  if(Math.random()<.35)addP(star.x,star.y,(Math.random()-.5)*.4,.2,hsl(.13,.9,.78),20);
+  if(yi>=GH-2||(yi>=groundTop&&xi>=0&&xi<GW&&set[yi*GW+xi]===2)){   // 砂丘に落ちて、光る砂が散る
+    for(var k=0;k<110;k++)addP(star.x,star.y-1,(Math.random()-.5)*3,-Math.random()*2.8,hsl(.1+Math.random()*.08,.9,.7+Math.random()*.2),12);
+    star=null;
+  }
+}
+
+function scanNeed(){
+  needCols.length=0;totalEmpty=0;
+  for(var x=0;x<GW;x++){var c=0;for(var y=0;y<groundTop;y++){var i=y*GW+x;if(mask[i]&&!set[i])c++;}
+    if(c){needCols.push(x);totalEmpty+=c;}}
+}
+
+function spawn(x,targeted){
+  if(np>=MAXP)return;
+  PX[np]=x+Math.random();PY[np]=-Math.random()*6;VX[np]=targeted?0:(Math.random()-.5)*.3;
+  VY[np]=.6+Math.random()*.9;PC[np]=grainColor();PF[np]=0;PT[np]=targeted?1:0;np++;
+}
+
+function sink(){                   // 砂丘が育ったら、地層ごとゆっくり沈める(新しい層が上に積もり続ける)
+  for(var y=GH-1;y>groundTop;y--){var r=y*GW,s=r-GW;
+    for(var x=0;x<GW;x++){
+      if(y===GH-1&&set[r+x]===2)groundCount--;
+      set[r+x]=set[s+x];col[r+x]=col[s+x];}}
+  var r0=groundTop*GW;for(var x2=0;x2<GW;x2++){set[r0+x2]=0;}
+}
+
+function step(){
+  t+=1/60;frameNo++;
+  applyDec();applyTime();stepStar();
+  if(frameNo%8===1)scanNeed();
+  // 傾き: 傾けた側へ砂が数字から流れ落ちる。戻すとまた積もる
+  tiltX+=(tiltRaw-tiltX)*.15;
+  var tl=Math.abs(tiltX)>.3?(Math.abs(tiltX)-.3)/.7:0,td=tiltX>0?1:-1,lim=groundTop*GW;
+  if(tl>0)for(var a=0,na=6000*tl;a<na;a++){var ti=(Math.random()*lim)|0;
+    if(set[ti]===1&&(!set[ti-GW*2]||!set[ti+td*2]))release(ti,false,td*(.5+Math.random()*.8));}
+  // 振る: 砂が舞い上がる(数字も砂丘も)
+  if(shake>.02){for(var b2=0,nb=5000*shake;b2<nb;b2++){var si=(Math.random()*N)|0;if(set[si])release(si,3.6);}shake*=.88;}
+  var nT=tl>0?0:Math.min(120,Math.max(totalEmpty?6:0,Math.ceil(totalEmpty/350)));
+  for(var k=0;k<nT&&needCols.length;k++)spawn(needCols[(Math.random()*needCols.length)|0],true);
+  spawn(Math.random()*GW,false);        // いつも少しだけ降っている砂
+  var wind=Math.sin(t*.13)*.18;
+  for(var p=0;p<np;p++){
+    VY[p]=Math.min(VY[p]+.09,3.2);if(PF[p])PF[p]--; else if(!PT[p]||tl>0)VX[p]+=(wind*.3+tiltX*1.7-VX[p])*.04;
+    var n=Math.max(1,Math.ceil(Math.abs(VY[p]))),dx=VX[p]/n,dy=VY[p]/n,dead=false;
+    for(var s=0;s<n&&!dead;s++){
+      PX[p]+=dx;PY[p]+=dy;
+      if(PX[p]<0)PX[p]+=GW;else if(PX[p]>=GW)PX[p]-=GW;
+      var yi=PY[p]|0;if(yi<0)continue;var xi=PX[p]|0,i=yi*GW+xi;
+      if(yi<groundTop){
+        if(!tl&&!PF[p]&&mask[i]&&!set[i]&&(!mask[i+GW]||set[i+GW]===1)){
+          var sd=Math.random()<.5?-1:1;
+          for(var h=0;h<6;h++){              // 斜面をすべり落ちる。高さがそろい、色の縞が水平な地層になる
+            var j=i+GW+sd;
+            if(!(mask[j]&&!set[j]&&mask[i+sd]&&!set[i+sd])){sd=-sd;j=i+GW+sd;
+              if(!(mask[j]&&!set[j]&&mask[i+sd]&&!set[i+sd]))break;}
+            while(mask[j+GW]&&!set[j+GW])j+=GW;
+            i=j;
+          }
+          set[i]=1;col[i]=PC[p];dead=true;}
+      }else{
+        if(yi>=GH-1||set[i+GW]===2){
+          if(yi>GH-1){yi=GH-1;i=yi*GW+xi;}
+          if(set[i]){dead=true;break;}
+          var dir=Math.random()<.5?-1:1,moved=false;
+          if(yi<GH-1)for(var q=0;q<2;q++){var nx=xi+dir;
+            if(nx>=0&&nx<GW&&!set[i+GW+dir]&&!set[i+dir]){PX[p]=nx+.5;PY[p]=yi+1.2;VY[p]=.6;moved=true;break;}dir=-dir;}
+          if(!moved){set[i]=2;col[i]=PC[p];groundCount++;dead=true;}
+        }
+      }
+    }
+    if(dead){np--;PX[p]=PX[np];PY[p]=PY[np];VX[p]=VX[np];VY[p]=VY[np];PC[p]=PC[np];PF[p]=PF[np];PT[p]=PT[np];p--;}
+  }
+  if(frameNo%6===0&&groundCount>GW*(GH-groundTop)*.5)sink();
+}
+
+function draw(){
+  for(var y=0,i=0;y<GH;y++){var b=bg[y],g=b+0x000e0e0e;
+    for(var x=0;x<GW;x++,i++){
+      if(!set[i]){px32[i]=mask[i]?g:b;continue;}
+      var c=col[i];
+      if(i>=GW&&!set[i-GW]){                 // 積もった面のいちばん上は、光を受けて明るい
+        var r=c&255,gg=(c>>8)&255,bb=(c>>16)&255;
+        c=(255<<24)|((bb+(255-bb)*.45)<<16)|((gg+(255-gg)*.45)<<8)|(r+(255-r)*.45);}
+      px32[i]=c;}}
+  for(var p=0;p<np;p++){var yy=PY[p]|0;if(yy>=0&&yy<GH){var k=yy*GW+(PX[p]|0);if(!set[k])px32[k]=PC[p];}}
+  if(star){var tr=star.tr,L=tr.length;
+    for(var k2=0;k2<=L;k2+=2){var sx=(k2<L?tr[k2]:star.x)|0,sy=(k2<L?tr[k2+1]:star.y)|0,al=k2<L?Math.pow(k2/L,1.5)*.9:1,w=k2<L?0:1;
+      for(var wy=-w;wy<=w;wy++)for(var wx=-w;wx<=w;wx++){var X=sx+wx,Y=sy+wy;if(X<0||X>=GW||Y<0||Y>=GH)continue;
+        var o=px32[Y*GW+X],r0=o&255,g0=(o>>8)&255,b0=(o>>16)&255;
+        px32[Y*GW+X]=(255<<24)|((b0+(225-b0)*al)<<16)|((g0+(245-g0)*al)<<8)|(r0+(255-r0)*al);}}}
+  // 5つの粒: 10・20・30・40・50秒で1つずつ灯る(0〜9秒は何も灯らない)
+  var ms=Date.now()%60000,cur=Math.floor(ms/10000),fr=Math.min(1,(ms%10000)/600);
+  var rr=Math.max(1,Math.round(GW*.007)),sp=GW*.05,cy=Math.round(GH*.715);
+  for(var d=0;d<5;d++){var cx=Math.round(GW/2+(d-2)*sp),lit=d<cur-1?1:(d===cur-1?fr:0);
+    for(var oy=-rr;oy<=rr;oy++)for(var ox=-rr;ox<=rr;ox++){if(ox*ox+oy*oy>rr*rr+1)continue;
+      var qi=(cy+oy)*GW+cx+ox,base=bg[cy+oy]+0x00141414;
+      if(!lit){px32[qi]=base;continue;}
+      var c2=dotColor(d),br=base&255,bgc=(base>>8)&255,bb2=(base>>16)&255;
+      px32[qi]=(255<<24)|((bb2+(((c2>>16)&255)-bb2)*lit)<<16)|((bgc+(((c2>>8)&255)-bgc)*lit)<<8)|(br+((c2&255)-br)*lit);}}
+  sctx.putImageData(img,0,0);
+  ctx.globalCompositeOperation='source-over';ctx.globalAlpha=1;ctx.imageSmoothingEnabled=false;
+  ctx.drawImage(small,0,0,cv.width,cv.height);
+  gctx.drawImage(small,0,0,gcv.width,gcv.height);      // ぼかした写しを重ねて、砂をほんのり光らせる
+  ctx.globalCompositeOperation='lighter';ctx.globalAlpha=.36;ctx.imageSmoothingEnabled=true;
+  ctx.drawImage(gcv,0,0,cv.width,cv.height);
+}
+function loop(){step();draw();requestAnimationFrame(loop);}
+
+function brush(e){
+  var r=cv.getBoundingClientRect(),gx=((e.clientX-r.left)/r.width*GW)|0,gy=((e.clientY-r.top)/r.height*GH)|0,R=Math.round(GW*.055);
+  for(var y=Math.max(0,gy-R);y<=Math.min(GH-1,gy+R);y++)for(var x=Math.max(0,gx-R);x<=Math.min(GW-1,gx+R);x++)
+    if((x-gx)*(x-gx)+(y-gy)*(y-gy)<=R*R)release(y*GW+x,1.6);
+  hint.classList.remove('on');
+}
+var down=false;
+cv.addEventListener('pointerdown',function(e){if(window.APKit&&APKit.isUI(e.clientX,e.clientY))return;down=true;brush(e);});
+cv.addEventListener('pointermove',function(e){if(down)brush(e);});
+addEventListener('pointerup',function(){down=false;});addEventListener('pointercancel',function(){down=false;});
+addEventListener('resize',setup);
+
+// 傾き・振り(iPhoneは最初のタップで許可を求める)
+function onOri(e){if(e.gamma==null)return;var a=(screen.orientation&&screen.orientation.angle)||0;
+  var g=a===90?e.beta:(a===270?-e.beta:e.gamma);tiltRaw=Math.max(-1,Math.min(1,g/40));}
+function onMot(e){var a=e.acceleration;if(!a||a.x==null)return;
+  var m=Math.sqrt(a.x*a.x+a.y*a.y+a.z*a.z);if(m>9)shake=Math.min(1,shake+(m-9)/25);}
+function listenMotion(){addEventListener('deviceorientation',onOri);addEventListener('devicemotion',onMot);}
+var needAsk=window.DeviceOrientationEvent&&typeof DeviceOrientationEvent.requestPermission==='function';
+if(needAsk){
+  addEventListener('pointerup',function ask(){removeEventListener('pointerup',ask);
+    DeviceOrientationEvent.requestPermission().then(function(r){if(r==='granted')listenMotion();}).catch(listenMotion);
+    if(window.DeviceMotionEvent&&DeviceMotionEvent.requestPermission)DeviceMotionEvent.requestPermission().catch(function(){});
+  });
+  hint.innerHTML='なぞる・傾ける・振ると砂が動く<br>(傾き・振りは、一度画面に触れてから)';
+}
+listenMotion();   // 先に付けておく(許可が要らない端末はこれだけで動く。iPhoneは許可後に届きはじめる)
+
+function collapseAll(){for(var i=0;i<groundTop*GW;i++)if(set[i]===1)release(i,false);}
+
+setup();loop();
+hint.classList.add('on');setTimeout(function(){hint.classList.remove('on');},8000);
+
+APKit.init({
+  canvas:cv, gifName:'fallen-minutes-loop', clockFormat:'spec',
+  dock:true, autoHide:true, fullscreenButton:false,
+  buttons:[
+    {label:'✦',name:'mutate',onClick:function(){pal=(pal+1)%PALS.length;collapseAll();}},   // 砂の色を替えて積もり直す
+    {label:'↻',name:'reset',onClick:function(){pal=0;setup();}}
+  ]
+});
+})();
+</script>
+</body>
+</html>

diff --git a/prototypes/fallen-minutes.html b/prototypes/fallen-minutes.html
@@ -1,5 +1,5 @@
 <!DOCTYPE html>
-<!-- FALLEN MINUTES — クロちゃん(Claude)作。2026/11/10 試作。
+<!-- FALLEN MINUTES — クロちゃん(Claude)作。2026/11/10 試作。(採用済み: ルートの art-v123-fallen-minutes.html に昇格。こちらは試作版として残す)
      時計が主役。今の時刻(HH:MM)の数字に砂が降り積もる。
      世界のルール: 「過ぎた一分は崩れて、砂の地層になる」。分が変わると、変わった数字だけ崩れ落ちて
      下の砂丘に積もり、新しい数字がまた積もる。砂の色は時間でゆっくり変わるので、数字にも砂丘にも縞(地層)が残る。

diff --git a/CHANGELOG.md b/CHANGELOG.md
@@ -1,3 +1,4 @@
+- 2026-11-10 クロちゃん: FALLEN MINUTESを採用・art-v123として昇格し、CURRENTに設定、録画の対象にも追加(おっちゃん「追加採用カレントへ」。録画は直前の「採用なら録画対象に」の流れで追加)。`prototypes/fallen-minutes.html`をコピーして`ap-kit.js`の相対パスをルート用に直し、冒頭に昇格の注記を追加(試作版にも注記して残す)。それまでのCURRENTだったDEEP HOURS(v120)はLOGのCAMPFIRE(v121)とWINDOW FOG(v119)の間(並び順を保つ位置)へ移し、Published worksは先頭をFALLEN MINUTESにしてDEEP HOURSをCAMPFIREの直後へ。`META`に操作ヒント「なぞって砂を払う。傾けると砂が落ちる」を1行追加、`REC_WORKS`に`art-v123-fallen-minutes.html`を追加、sitemap.xmlに`/art-v123-fallen-minutes`を追加。`tools/poster-config.json`に`hide:#hint`・待ち6秒を追加し、ポスター(ヒーロー含む)とOGPカードを生成(目視で文字の写り込みなし・砂の数字が写っていることを確認)。`gen_posters.py --check`・`gen_og.py --check`とも終了コード0(28 SHELLSのポスター・OGPも「古い」扱いだったので同時に作り直した)。確認: `node --check`OK、`<button>`の開閉が一致。**未確認**: iPhone実機での粒の見やすさ・傾きの向きと効き始め(約12°)・振りの感度・流れ星・横画面、ギャラリーの全画面(iframe)内で傾きセンサーが届くか、録画のスマホ実機での重さ(重ければ`REC_WORKS`から外す)(art-v123-fallen-minutes.html, prototypes/fallen-minutes.html, index.html, posters/, og/, tools/poster-config.json, sitemap.xml, CHANGELOG.md)
 - 2026-11-10 クロちゃん: FALLEN MINUTESの秒の粒を小さくした(おっちゃん「秒の丸はもっと小さくてよいかな」)。粒の半径を約半分(画面幅の1.3%→0.7%)、間隔も詰めた(7.5%→5%)。確認: `node --check`OK、スマホ幅のヘッドレスChromiumで表示とエラー無し。**未確認**: iPhone実機での見やすさ(prototypes/fallen-minutes.html, CHANGELOG.md)
 - 2026-11-10 クロちゃん: FALLEN MINUTESの粒の灯り方を直した(おっちゃんiPhone実機 09:50:08 のスクショ「秒は0から10は無しじゃないの？」。0〜9秒のあいだも1つ目の粒が灯りかけていた=今の10秒ぶんをだんだん明るくする作りだったため)。粒は「その10秒が過ぎたら灯る」に変更: 0〜9秒は何も灯らず、10秒で1つ目、20・30・40・50秒で順に灯る。6つ目は灯る前に分が変わるので、粒は5つにした。確認: `node --check`OK、スマホ幅のヘッドレスChromiumで :05=0個・:37=3個 を確認、エラー無し。**未確認**: iPhone実機(prototypes/fallen-minutes.html, CHANGELOG.md)
 - 2026-11-10 クロちゃん: FALLEN MINUTESの「10秒ごとの色の切り替え」をやめ、なめらかに変わる虹に戻した(おっちゃんiPhone実機「10秒で色切り替えだとつまらなくなるよ！」。数字がほぼ単色のべた塗りになっていた)。砂の色は最初の版と同じく時間で連続的に変わる。10秒ごとに降らせていた砂のひと幕も外した。10秒の合図は6つの粒(色は粒ごとに固定の虹色)と50秒の流れ星が担う。**あわせて不具合を修正**: 画面に縦の砂の筋が出続けていた(実機スクショ)。原因=数字の空きマスを狙って真上から降らせる砂も風で横に流していたため、数字の端の列には届かず、同じ列に降らせ続けていた。狙って降らせる砂は風で流さないようにした(傾けたときは流れる)。確認: `node --check`OK、スマホ幅のヘッドレスChromiumで60秒以上動かし、数字が埋まりきること・縦の筋が残らないこと・虹のなめらかな縞・エラー無し。**未確認**: iPhone実機(prototypes/fallen-minutes.html, CHANGELOG.md)
@@ -656,7 +657,7 @@
 
 ## 現在の状態(変わったら書き換える)
 
-- CURRENT: DEEP HOURS(`art-v120-deep-hours.html`。カメラ作品。録画対象。2026/11/09採用。試作版`prototypes/deep-hours.html`も残す)
+- CURRENT: FALLEN MINUTES(`art-v123-fallen-minutes.html`。砂の時計。録画対象。2026/11/10採用。試作版`prototypes/fallen-minutes.html`も残す)。その前のCURRENTはDEEP HOURS(`art-v120-deep-hours.html`。LOGのCAMPFIREの下)
 - 試作の整理(2026/11/09): クロちゃん作の止まっていた試作は、CAMPFIRE・RESONANCEだけ残し、他はボツ(ファイルは`prototypes/`に残す)。チャッピー作の試作(CUBE COSMOS・GRAFT LAW・HINGE LAW・PARADOX ENGINE・INSIDE OUT)は、この整理の対象外で未判断のまま
 - LOG先頭(2026/11/10〜): 28 SHELLS(`art-v122-28-shells.html`。録画対象。試作版`prototypes/28-shells.html`と元の`prototypes/fireworks-21.html`も残す)、その下にCAMPFIRE(`art-v121-campfire.html`。録画対象。試作版`prototypes/campfire.html`も残す)、その下にWINDOW FOG(`art-v119-window-fog.html`。録画対象)、その下にBLINK LAW(`art-v118-blink-law.html`。カメラ作品。録画対象)、その下にGAZE LAW(`art-v117-gaze-law.html`。カメラ作品。録画対象)、その下にKOMOREBI(`art-v115-komorebi.html`。録画対象。隠しメニューあり)、RING DIAL(`art-v113-ring-dial.html`。録画対象)、
 - (旧)LOG先頭(2026/10/30〜): RING DIAL(`art-v113-ring-dial.html`。録画対象)、その下にSEA SPARKLE(`art-v111-sea-sparkle.html`)。試作版`prototypes/ring-dial.html`も残す
